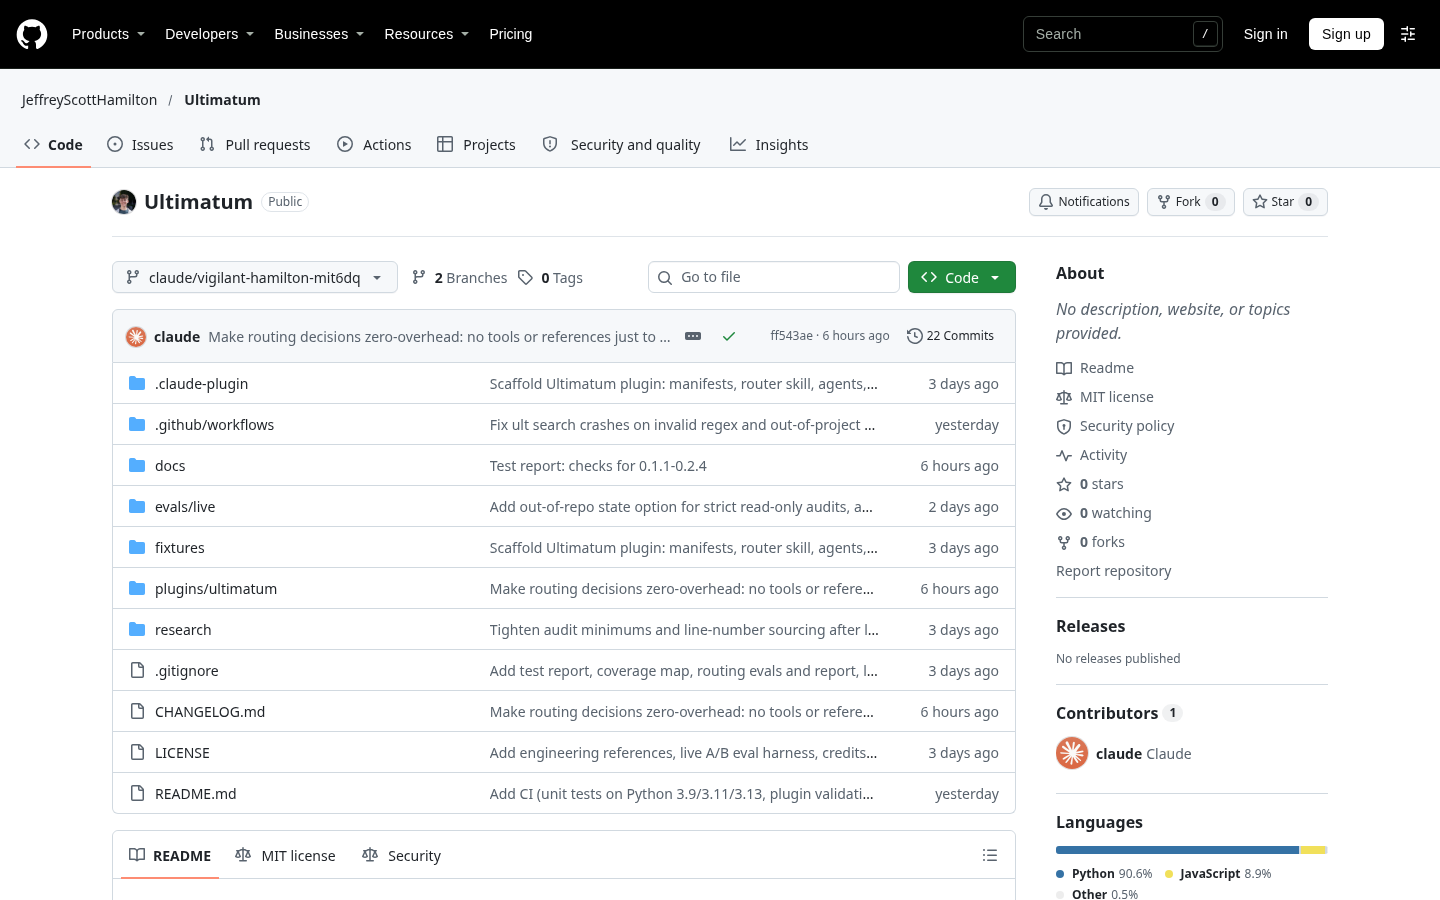
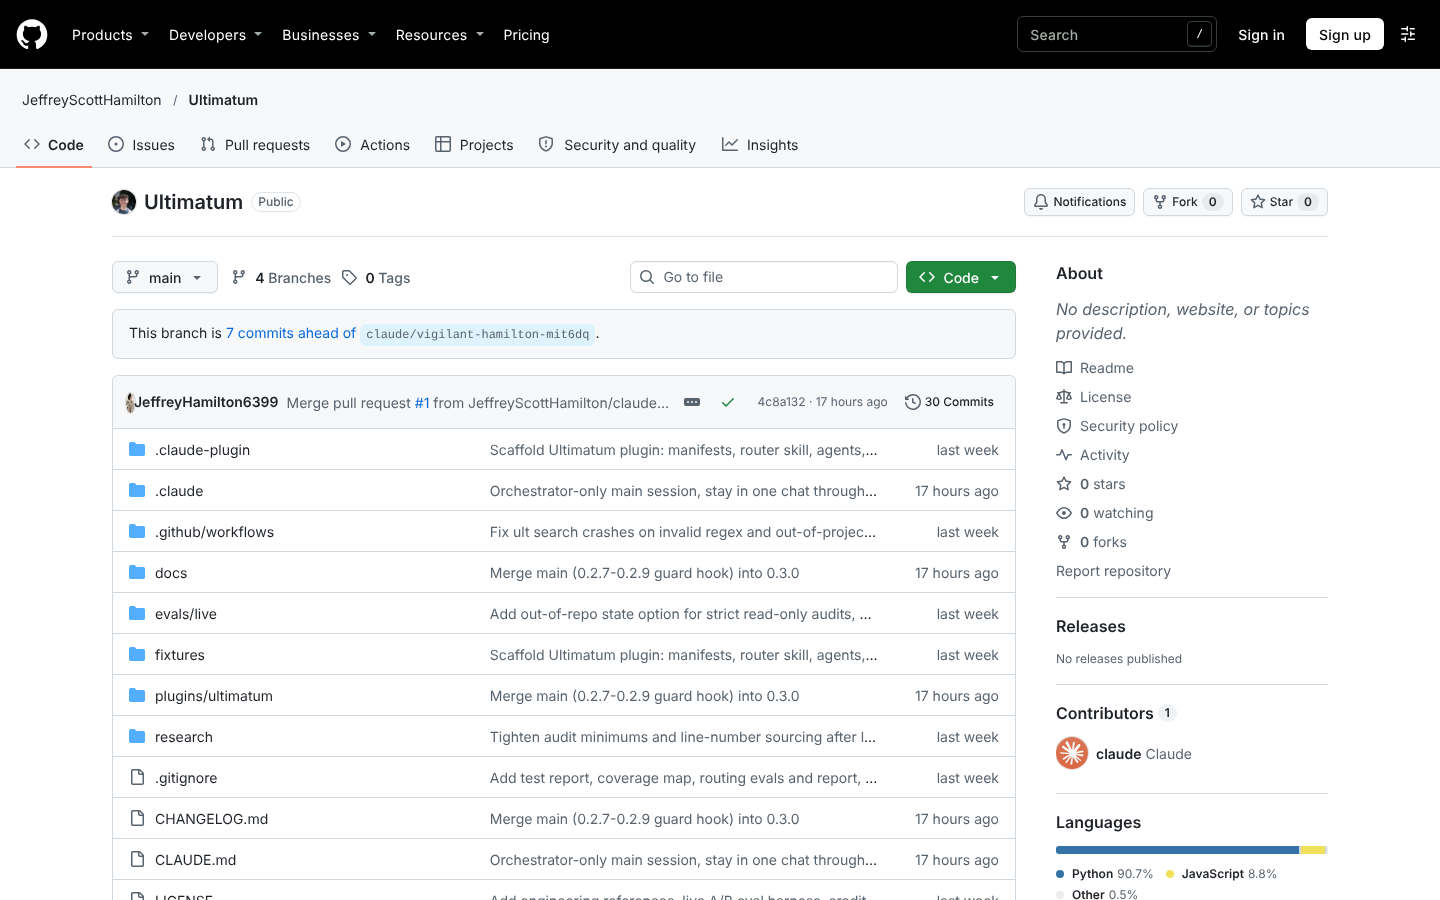
Slow Work hero snap, refresh Ultimatum preview (v0.3.0), set 200k auto-compact window
Claude-Session: https://claude.ai/code/session_018An2PAiGwzZ2PuKBcjvAck

diff --git a/components/work/WorkMode.tsx b/components/work/WorkMode.tsx
@@ -285,9 +285,10 @@ export default function WorkMode() {
                 : (self?.direction ?? 1) > 0
                   ? 1
                   : 0,
-          duration: { min: 0.5, max: 1.2 },
+          // slow enough to watch the copy fly into the board
+          duration: { min: 2.4, max: 3.2 },
           delay: 0.12,
-          ease: "power2.inOut",
+          ease: "sine.inOut",
         },
         pinSpacing: true,
         refreshPriority: 2,

diff --git a/content/portfolio.ts b/content/portfolio.ts
@@ -140,7 +140,7 @@ export const projects: Project[] = [
       "The real Ultimatum GitHub repository",
       "ready",
       undefined,
-      "Captured from verified GitHub repository, November 2026",
+      "Captured from the GitHub repository main branch (v0.3.0), 17 November 2026",
     ),
   },
   {

diff --git a/docs/HANDOFF.md b/docs/HANDOFF.md
@@ -76,3 +76,8 @@ Plainkit;
 ## Open questions
 - Morph canvas looks ~15% brighter/softer than the live portrait at hand-off — owner to judge
 - Finale portrait sizes probed at 5 desktop sizes; phones not re-checked visually
+
+### Session 5b
+- Work hero hold/snap slowed: snap duration 2.4–3.2 s, `sine.inOut` (WorkMode.tsx) so the copy visibly flies into the board.
+- Ultimatum preview retaken from the repo's `main` branch (v0.3.0). Note: GitHub's *default* branch is still `claude/vigilant-hamilton-mit6dq` (0.2.6) — switch it to `main` in GitHub settings.
+- Added `.claude/settings.json` with `CLAUDE_CODE_AUTO_COMPACT_WINDOW=200000` (Ultimatum's recommended auto-compact window).
